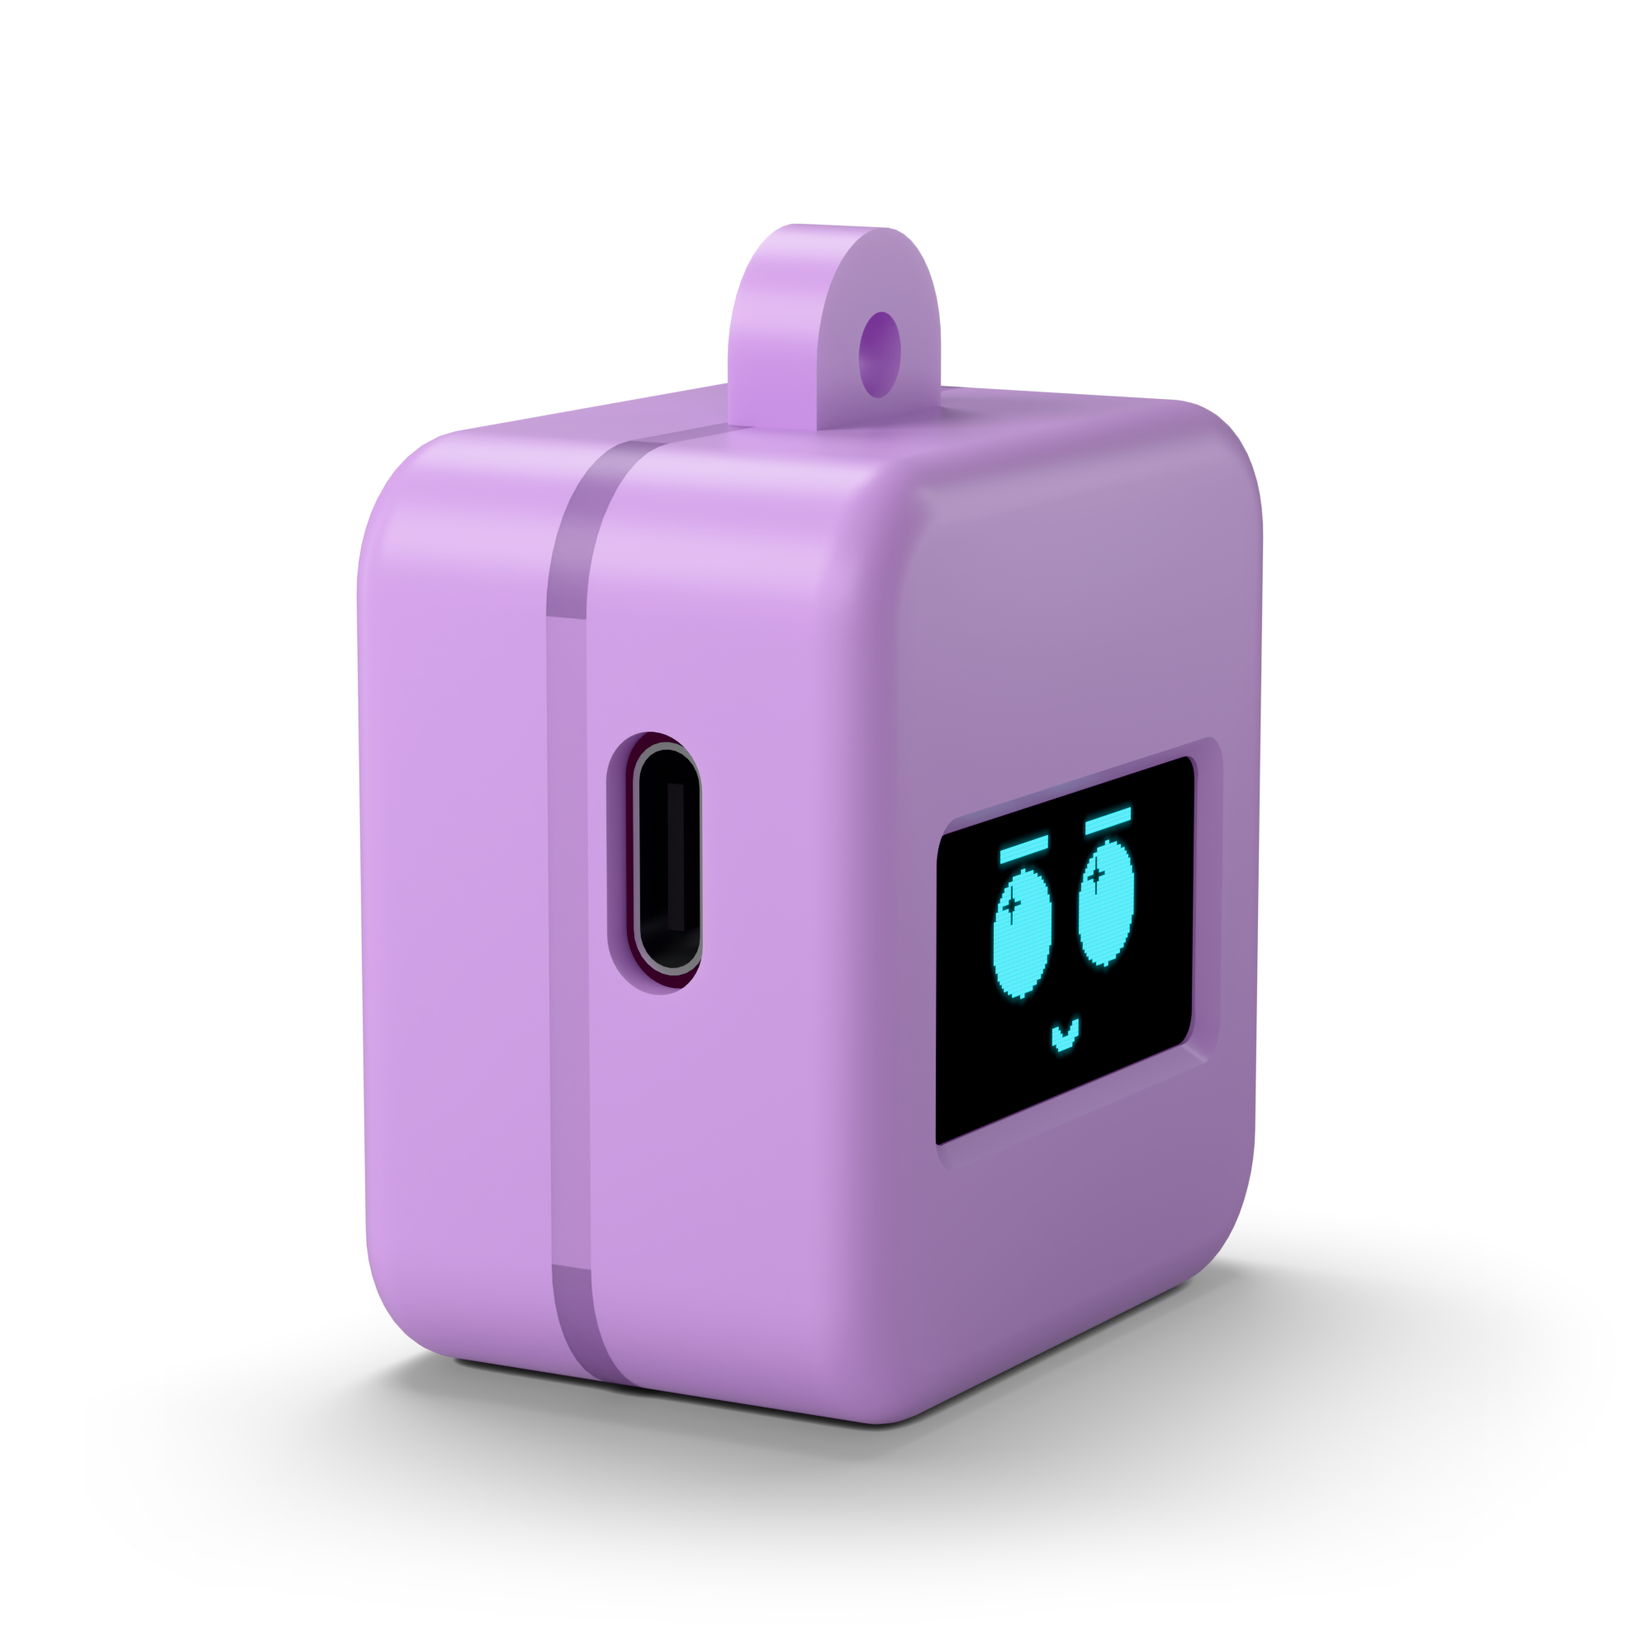
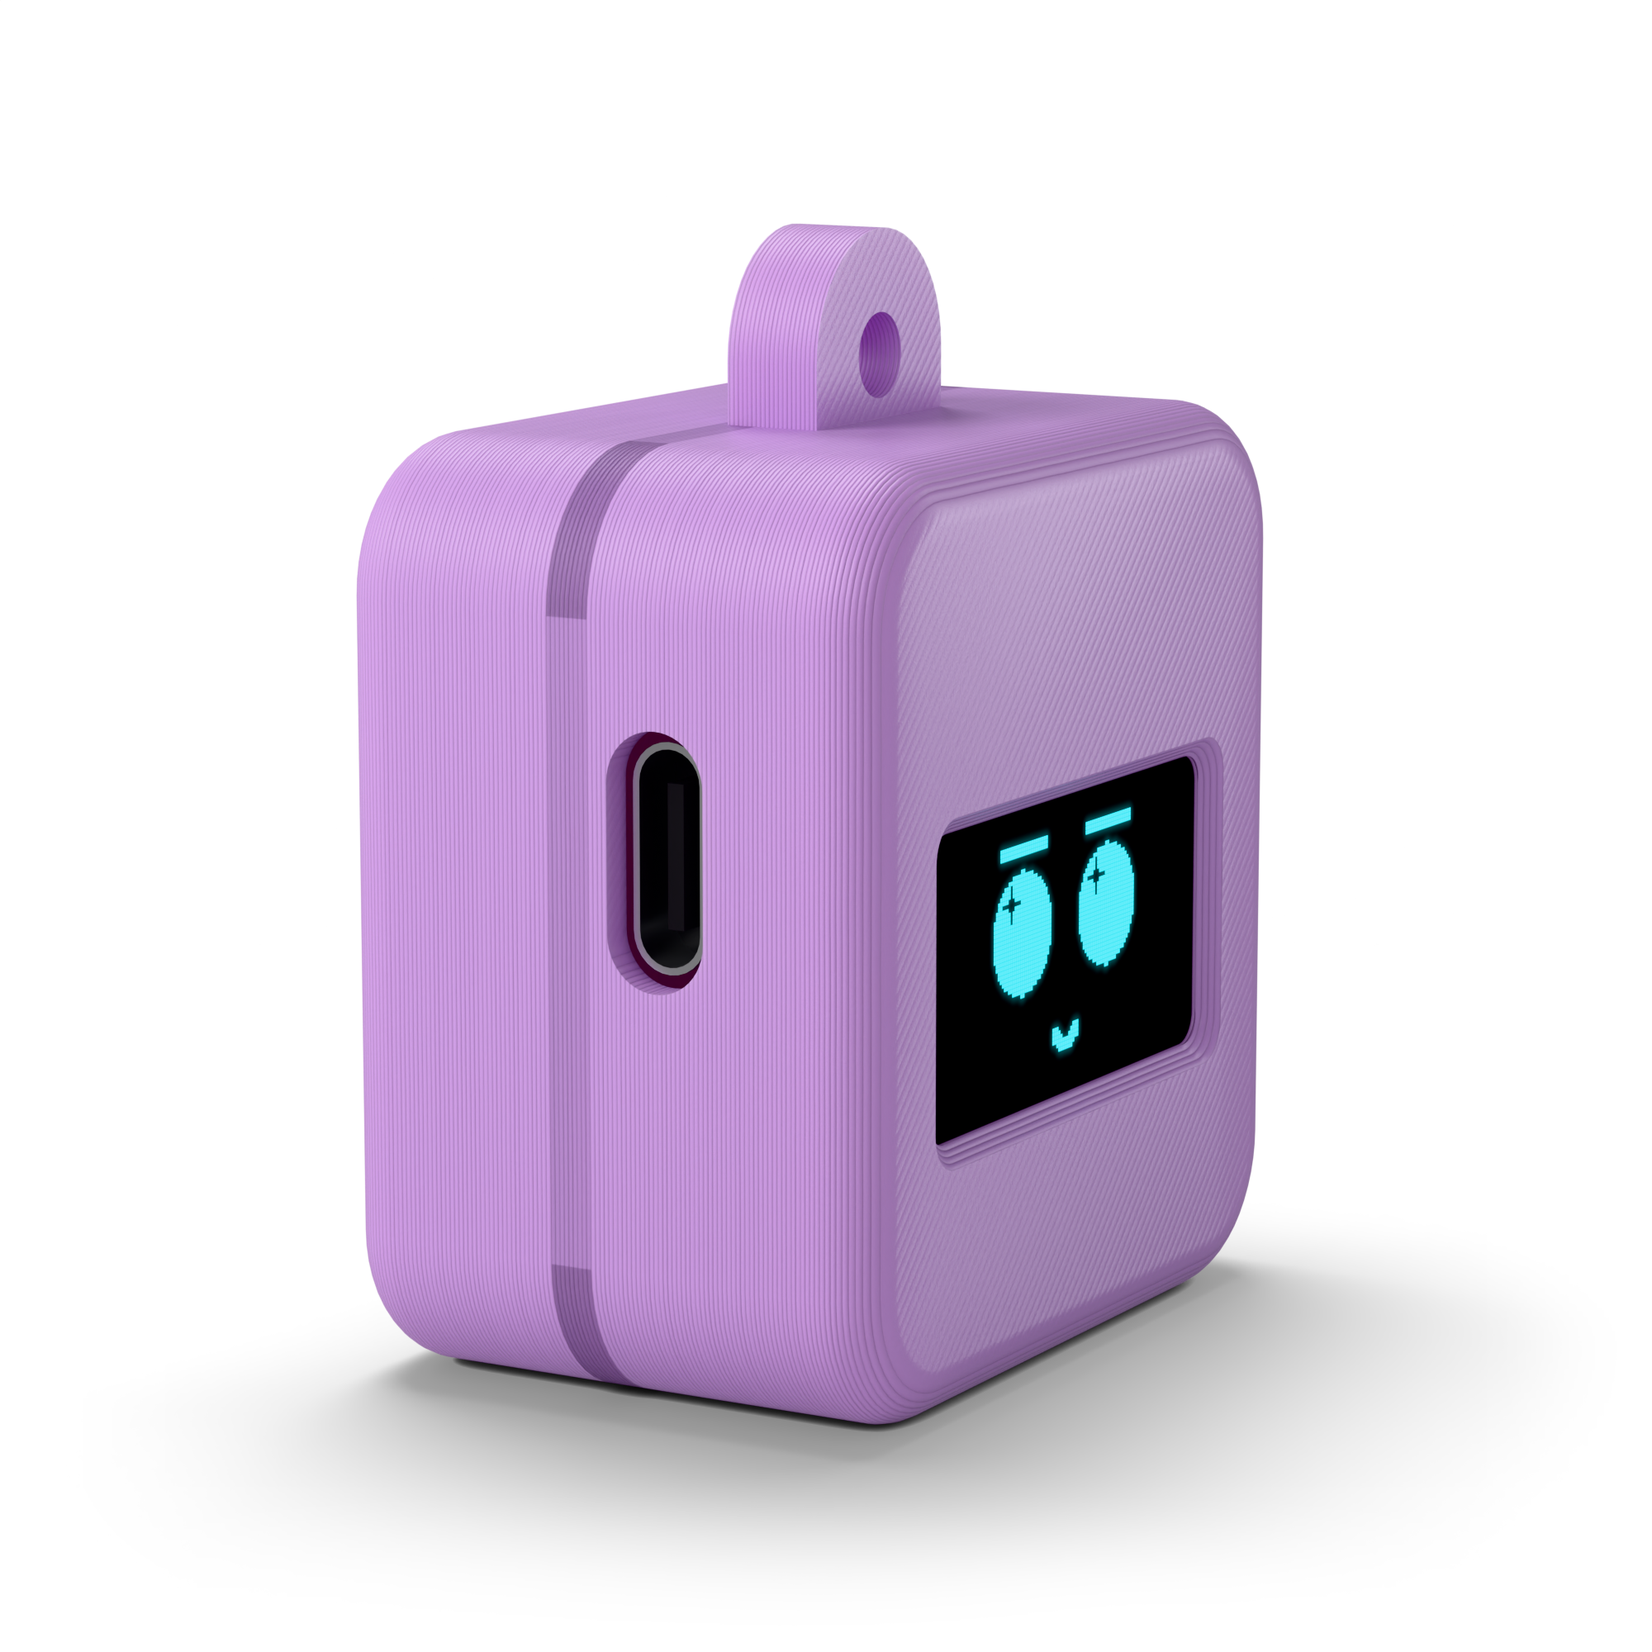
Renders: 3D-printed look, PETG grey/black and milky green
- Shell shader now looks FDM printed: 0.2 mm layer lines along each part's
  print direction, glossier bed faces with first-layer lines, darker grooves.
- New shots in the real ELEGOO PETG grey and black, and a milky green
  limited edition; PLA, PETG and milky finishes per shot.
- renders.json always lists every shot, so --only can render new ones.
- All product images re-rendered.

Claude-Session: https://claude.ai/code/session_01NGZp68ebE8nq2zT4H5x4dy

Changed region(s): [[0.217, 0.124, 0.558, 0.837], [0.62, 0.651, 0.682, 0.682], [0.651, 0.744, 0.682, 0.775]]

diff --git a/web/src/content/products.ts b/web/src/content/products.ts
@@ -67,7 +67,9 @@ export interface Product {
 const render = (file: string, caption?: string): GalleryImage => ({ ...renderImage(file), caption });
 
 const CONCEPT = "Render of the prototype design. Shell colours aren't final.";
-const MINI_PCB = "Mini Lumi case for the PCB: prototype design, not printed yet.";
+const PETG = "Render in the PETG filament the prototypes are printed in.";
+const MILKY_GREEN = "Milky green: a planned limited edition. Render of the prototype design.";
+const MINI_PCB ="Mini Lumi case for the PCB: prototype design, not printed yet.";
 const MINI_2 = "Mini Lumi 2: alternative case design, untested.";
 
 export const products: Product[] = [
@@ -91,6 +93,11 @@ export const products: Product[] = [
       render("three-quarter.png", CONCEPT),
       render("on-keyring.png", CONCEPT),
       render("usb-side.png", CONCEPT),
+      render("front-grey.png", PETG),
+      render("three-quarter-grey.png", PETG),
+      render("front-black.png", PETG),
+      render("front-milky-green.png", MILKY_GREEN),
+      render("three-quarter-milky-green.png", MILKY_GREEN),
       render("front-mint.png", CONCEPT),
       render("front-peach.png", CONCEPT),
       render("mini-pcb-front.png", MINI_PCB),

diff --git a/web/scripts/render_products.py b/web/scripts/render_products.py
@@ -3,13 +3,15 @@
     blender --background --python web/scripts/render_products.py
     blender --background --python web/scripts/render_products.py -- --only three-quarter,on-keyring --scale 0.4 --samples 64 --out some/folder
 
+The shells are shaded as FDM prints, with layer lines in each part's print direction.
 Everything comes from the design files: the case STLs in hardware/enclosure, the
 board's reference parts, and the firmware's frames in public/lumi. These are renders
 of the CAD model, not photos, and the site labels them that way.
 
-A full run writes public/renders/*.png and src/content/renders.json (the image list,
+A run writes public/renders/*.png and src/content/renders.json (the image list,
 and where the screen sits in the front shots so the site can play real animations
-over it). A run with --only or --out leaves renders.json alone.
+over it). renders.json always lists every shot, so --only can render just new ones.
+A run with --out leaves renders.json alone.
 
 Blender axes throughout: X right, Z up, -Y toward the viewer, millimetres.
 """
@@ -31,10 +33,26 @@ WEB = os.path.dirname(HERE)
 ENCLOSURE = os.path.join(WEB, "..", "hardware", "enclosure")
 
 LAVENDER, MINT, PEACH = "#c99be0", "#8fd6b6", "#ffb592"
+# The filament the prototypes are printed in (ELEGOO PETG), and a limited-edition milky green.
+GREY, BLACK, MILKY_GREEN = "#8e9194", "#26272b", "#b6dfc2"
+
+# How each filament takes the light. PETG is glossier than PLA; milky filament lets light far inside.
+PLA = {"roughness": 0.36, "subsurface": 0.12, "subsurface_scale": 0.6}
+PETG = {"roughness": 0.24, "subsurface": 0.15, "subsurface_scale": 0.6}
+MILKY = {"roughness": 0.26, "subsurface": 0.45, "subsurface_scale": 1.6}
 SCREEN_CYAN = (0.045, 0.871, 1.0)  # #3cf0ff, linear
 ACTIVE = (21.7, 10.9)              # OLED active area, mm
 
 SIZE = 2000  # image width in pixels; the keyring shot is 7:8
+
+# The printed look of the shells (see plastic_material), in mm.
+LAYER_H = 0.2         # layer height
+LINE_W = 0.42         # extrusion width: the first layer's lines on the bed face
+LAYER_DEPTH = 0.045   # how deep the grooves between layers read
+LAYER_WOBBLE = 0.025  # how far a layer line wanders
+BED_LINES = 0.12      # first-layer lines, relative to a layer groove
+GROOVE_DARKEN = 0.07  # grooves this much darker than the crowns
+PI = math.pi
 
 # The ground shadow is its own render, because the shadow catcher barely registers the big softboxes.
 SHADOW_LAMP_AT = (-30, 80, 300)
@@ -58,6 +76,18 @@ SHOTS = [
      "yaw": 1.05, "rise": 0.18, "dist": 230, "look": 3, "face": ("yotos", "neutral"), "no_glare": True, **SIDE},
     {"file": "on-keyring.png", "alt": "Pocket Lumi on a keyring", "color": MINT, "tall": True, "fov": 18,
      "yaw": -0.35, "rise": 0.05, "dist": 260, "look": 10, "ring": True, "face": ("ni", "sleepy")},
+    # The real filament, and the limited edition.
+    {"file": "front-grey.png", "alt": "Pocket Lumi in grey PETG, front", "color": GREY, "finish": PETG,
+     "dist": 172, "look": 3.5, "exposure": 0.55, **FRONT},
+    {"file": "three-quarter-grey.png", "alt": "Pocket Lumi in grey PETG, from the side", "color": GREY, "finish": PETG,
+     "yaw": -0.62, "rise": 0.2, "dist": 230, "look": 3, "face": ("ni", "happy"), **SIDE},
+    {"file": "front-black.png", "alt": "Pocket Lumi in black PETG, front", "color": BLACK, "finish": PETG,
+     "dist": 172, "look": 3.5, "exposure": 0.55, **FRONT},
+    {"file": "front-milky-green.png", "alt": "Pocket Lumi in limited-edition milky green, front", "color": MILKY_GREEN,
+     "finish": MILKY, "dist": 172, "look": 3.5, "exposure": 0.55, **FRONT},
+    {"file": "three-quarter-milky-green.png", "alt": "Pocket Lumi in limited-edition milky green, from the side",
+     "color": MILKY_GREEN, "finish": MILKY, "yaw": -0.62, "rise": 0.2, "dist": 230, "look": 3,
+     "face": ("katos", "love"), **SIDE},
     {"file": "trio.png", "alt": "", "color": PEACH, "yaw": 0.5, "rise": 0.2, "dist": 230, "look": 3,
      "face": ("katos", "love"), **SIDE},
     # The Mini Lumi cases: prototype designs that aren't printed yet.
@@ -143,8 +173,11 @@ def new_object(name, mesh, parent, material):
     return obj
 
 
-def shell_object(name, tris, parent, material, bevel):
-    """A case part: flat faces merged, curves smooth, and a small soft edge on every hard corner."""
+def shell_object(name, tris, parent, material, bevel, layer_axis):
+    """A case part: flat faces merged, curves smooth, and a small soft edge on every hard corner.
+
+    layer_axis is the direction it's printed in, in these coordinates: the layer lines run across it.
+    """
     verts, index = np.unique(np.round(tris.reshape(-1, 3), 4), axis=0, return_inverse=True)
     faces = index.reshape(-1, 3)
     faces = faces[(faces[:, 0] != faces[:, 1]) & (faces[:, 1] != faces[:, 2]) & (faces[:, 0] != faces[:, 2])]
@@ -160,6 +193,7 @@ def shell_object(name, tris, parent, material, bevel):
     me.shade_smooth()
     me.set_sharp_from_angle(angle=math.radians(32))
     obj = new_object(name, me, parent, material)
+    obj["layer_axis"] = layer_axis
     mod = obj.modifiers.new("soft edges", "BEVEL")
     mod.limit_method = "ANGLE"
     mod.angle_limit = math.radians(32)
@@ -271,22 +305,128 @@ def hex_linear(value):
 
 
 def plastic_material():
-    """Soft matte plastic: a little light inside it, and a very fine moulded grain."""
-    mat = principled("shell plastic", Roughness=0.4, Subsurface_Weight=0.1, Subsurface_Scale=0.6, Coat_Weight=0.2, Coat_Roughness=0.28)
+    """FDM-printed PLA/PETG.
+
+    Each case part carries a "layer_axis" property, the direction it's printed in (in the part's own
+    coordinates). Along it run the layer lines: a rounded bead every LAYER_H, slightly uneven from
+    layer to layer and a little wobbly, darker and rougher in the grooves. Faces that lay on the
+    bed are smoother and glossier, with the faint diagonal lines of the first layer. A little light
+    gets inside the plastic.
+    """
+    mat = principled("shell plastic", Roughness=0.42, Subsurface_Weight=0.12, Subsurface_Scale=0.6, Specular_IOR_Level=0.45)
     tree = mat.node_tree
-    node = tree.nodes["Principled BSDF"]
-    node.inputs["Subsurface Radius"].default_value = (1.0, 0.55, 0.4)
-    coord = tree.nodes.new("ShaderNodeTexCoord")
-    noise = tree.nodes.new("ShaderNodeTexNoise")
-    noise.inputs["Scale"].default_value = 11.0
-    noise.inputs["Detail"].default_value = 3.0
-    bump = tree.nodes.new("ShaderNodeBump")
-    bump.inputs["Strength"].default_value = 0.035
-    bump.inputs["Distance"].default_value = 0.08
-    tree.links.new(coord.outputs["Object"], noise.inputs["Vector"])
-    tree.links.new(noise.outputs["Fac"], bump.inputs["Height"])
-    tree.links.new(bump.outputs["Normal"], node.inputs["Normal"])
+    nodes, link = tree.nodes, tree.links.new
+    bsdf = nodes["Principled BSDF"]
+    bsdf.inputs["Subsurface Radius"].default_value = (1.0, 0.55, 0.4)
+
+    def m(op, a, b=None, clamp=False):
+        n = nodes.new("ShaderNodeMath")
+        n.operation = op
+        n.use_clamp = clamp
+        for i, v in enumerate((a, b)):
+            if v is None:
+                continue
+            if isinstance(v, (int, float)):
+                n.inputs[i].default_value = v
+            else:
+                link(v, n.inputs[i])
+        return n.outputs[0]
+
+    def vmath(op, a, b=None):
+        n = nodes.new("ShaderNodeVectorMath")
+        n.operation = op
+        for i, v in enumerate((a, b)):
+            if v is None:
+                continue
+            if isinstance(v, (tuple, list)):
+                n.inputs[i].default_value = v
+            else:
+                link(v, n.inputs[i])
+        return n.outputs["Value" if op == "DOT_PRODUCT" else "Vector"]
+
+    def noise(vector=None, w=None, scale=1.0, detail=0.0, dims="3D"):
+        n = nodes.new("ShaderNodeTexNoise")
+        n.noise_dimensions = dims
+        n.inputs["Scale"].default_value = scale
+        n.inputs["Detail"].default_value = detail
+        if vector is not None:
+            link(vector, n.inputs["Vector"])
+        if w is not None:
+            link(w, n.inputs["W"])
+        return n.outputs["Fac"]
+
+    coord = nodes.new("ShaderNodeTexCoord").outputs["Object"]
+    attr = nodes.new("ShaderNodeAttribute")
+    attr.attribute_type = "OBJECT"
+    attr.attribute_name = "layer_axis"
+    axis = attr.outputs["Vector"]
+
+    # Height along the print direction, nudged a little so the lines aren't ruler-straight.
+    along = vmath("DOT_PRODUCT", coord, axis)
+    wobble = m("MULTIPLY", m("SUBTRACT", noise(coord, scale=0.35, detail=1.0), 0.5), LAYER_WOBBLE)
+    along = m("ADD", along, wobble)
+    # One rounded bead per layer: 0 in the groove, 1 on the crown.
+    layer = m("DIVIDE", along, LAYER_H)
+    bead = m("POWER", m("ABSOLUTE", m("SINE", m("MULTIPLY", layer, PI))), 0.55)
+    # Some layers stand out a little more than others.
+    unevenness = m("ADD", 0.55, m("MULTIPLY", noise(w=m("FLOOR", layer), scale=0.9, dims="1D"), 0.9))
+    walls = m("MULTIPLY", bead, unevenness)
+
+    # How squarely the surface faces the print direction: 1 on the bed (and top) faces.
+    normal = nodes.new("ShaderNodeVectorTransform")
+    normal.vector_type = "NORMAL"
+    normal.convert_from, normal.convert_to = "WORLD", "OBJECT"
+    link(nodes.new("ShaderNodeNewGeometry").outputs["Normal"], normal.inputs["Vector"])
+    facing = m("ABSOLUTE", vmath("DOT_PRODUCT", normal.outputs["Vector"], axis))
+    ramp = nodes.new("ShaderNodeMapRange")
+    ramp.interpolation_type = "SMOOTHSTEP"
+    ramp.inputs["From Min"].default_value = 0.93
+    ramp.inputs["From Max"].default_value = 0.995
+    link(facing, ramp.inputs["Value"])
+    flat = ramp.outputs["Result"]
+
+    # The first layer's lines, diagonal across the bed face, one extrusion width apart.
+    diagonal = vmath("NORMALIZE", vmath("CROSS_PRODUCT", axis, (1.0, 1.0, 1.0)))
+    across = m("DIVIDE", vmath("DOT_PRODUCT", coord, diagonal), LINE_W)
+    bed = m("MULTIPLY", m("ABSOLUTE", m("SINE", m("MULTIPLY", across, PI))), BED_LINES)
+
+    height = nodes.new("ShaderNodeMix")
+    height.data_type = "FLOAT"
+    link(flat, height.inputs["Factor"])
+    link(walls, height.inputs["A"])
+    link(bed, height.inputs["B"])
+    grain = m("MULTIPLY", noise(coord, scale=11.0, detail=3.0), 0.12)
+    surface = m("ADD", height.outputs["Result"], grain)
+    bump = nodes.new("ShaderNodeBump")
+    bump.inputs["Strength"].default_value = 1.0
+    bump.inputs["Distance"].default_value = LAYER_DEPTH
+    link(surface, bump.inputs["Height"])
+    link(bump.outputs["Normal"], bsdf.inputs["Normal"])
+
+    # Grooves are a touch darker and rougher; the bed face is smoother.
+    base_rough = nodes.new("ShaderNodeValue")
+    base_rough.name = "base roughness"
+    base_rough.outputs[0].default_value = PLA["roughness"]
+    groove = m("SUBTRACT", 1.0, m("MINIMUM", walls, 1.0))
+    on_walls = m("SUBTRACT", 1.0, flat)
+    rough = m("ADD", m("ADD", base_rough.outputs[0], m("MULTIPLY", m("MULTIPLY", groove, on_walls), 0.14)),
+                 m("MULTIPLY", flat, -0.12))
+    link(rough, bsdf.inputs["Roughness"])
+    color = nodes.new("ShaderNodeRGB")
+    color.name = "shell color"
+    shade = nodes.new("ShaderNodeMix")
+    shade.data_type = "RGBA"
+    shade.blend_type = "MULTIPLY"
+    shade.inputs["Factor"].default_value = 1.0
+    link(color.outputs["Color"], shade.inputs["A"])
+    darken = nodes.new("ShaderNodeCombineColor")
+    level = m("SUBTRACT", 1.0, m("MULTIPLY", m("MULTIPLY", groove, on_walls), GROOVE_DARKEN))
+    for socket in ("Red", "Green", "Blue"):
+        link(level, darken.inputs[socket])
+    link(darken.outputs["Color"], shade.inputs["B"])
+    link(shade.outputs["Result"], bsdf.inputs["Base Color"])
     return mat
+
 
 
 def screen_material(image):
@@ -321,7 +461,9 @@ def build_models(shell, screen, glass, metal, dark, steel, board):
     unprint = Matrix(((1, 0, 0, 0), (0, -1, 0, 0), (0, 0, -1, 23.5), (0, 0, 0, 1)))  # the back part prints flipped
     front = moved(load_stl("stl", "lumi_front.stl"), upright)
     back = moved(moved(load_stl("stl", "lumi_back.stl"), unprint), upright)
-    bodies = [shell_object("pocket front", front, root, shell, 0.22), shell_object("pocket back", back, root, shell, 0.22)]
+    # Both parts print with the SCAD model's Z (here Y, front to back) upright.
+    bodies = [shell_object("pocket front", front, root, shell, 0.22, (0, 1, 0)),
+              shell_object("pocket back", back, root, shell, 0.22, (0, 1, 0))]
     active = display(root, screen, glass, {"x": 0, "y": 0.9, "z": -1.8}, (-12, 12, -6.7, 6.7))
     extras = usb_port(-16.4, 9.1, 3.5, 3.2, 8.9, root, metal, dark)
     extras.append(box("XIAO board", (-16.4, 6.3, -5.4), (4.6, 7.5, 12.4), root, board))
@@ -338,7 +480,9 @@ def build_models(shell, screen, glass, metal, dark, steel, board):
     body = moved(load_stl("mini_lumi_pcb", "mini_lumi_pcb_body.stl"), Matrix.Translation((0, 0, sizes["base_z"])))
     lid = moved(load_stl("mini_lumi_pcb", "mini_lumi_pcb_lid.stl"),
                 Matrix(((1, 0, 0, 0), (0, 0, -1, lid_back), (0, 1, 0, 0), (0, 0, 0, 1))))
-    bodies = [shell_object("mini body", body, root, shell, 0.16), shell_object("mini lid", lid, root, shell, 0.16)]
+    # Each prints as it lies in its STL: the body as it stands here, the lid on its back.
+    bodies = [shell_object("mini body", body, root, shell, 0.16, (0, 0, 1)),
+              shell_object("mini lid", lid, root, shell, 0.16, (0, 1, 0))]
     refs = json.load(open(os.path.join(ENCLOSURE, "blender", "lumi_pcb_v1_refs.json")))
     extras = []
     for ref in refs["boxes"]:
@@ -363,7 +507,8 @@ def build_models(shell, screen, glass, metal, dark, steel, board):
     mid = tris[:, :, 1].mean(axis=1)
     body, lid = tris[mid < 24], tris[mid >= 24].copy()
     lid[:, :, 1] -= 22.65
-    bodies = [shell_object("mini2 body", body, root, shell, 0.16), shell_object("mini2 lid", lid, root, shell, 0.16)]
+    bodies = [shell_object("mini2 body", body, root, shell, 0.16, (0, 0, 1)),
+              shell_object("mini2 lid", lid, root, shell, 0.16, (0, 0, 1))]
     active = display(root, screen, glass, {"x": 0.25, "y": -6.0, "z": 24.1}, (-13.1, 13.1, -7.75, 7.75), lean=7)
     models["mini2"] = {"root": root, "bodies": [body, lid], "active": active, "settle": True,
                        "objects": [root, *bodies, active, *[c for c in root.children if c.name.startswith("OLED glass")]]}
@@ -550,7 +695,8 @@ def main():
     scene.camera = camera
     ground = catcher("ground", (0, 0, 0), (0, 0, 0))
 
-    shell_base = shell.node_tree.nodes["Principled BSDF"].inputs["Base Color"]
+    shell_base = shell.node_tree.nodes["shell color"].outputs["Color"]
+    shell_bsdf = shell.node_tree.nodes["Principled BSDF"]
     screen_node = screen.node_tree.nodes["Principled BSDF"]
     listed = []
     for shot in SHOTS:
@@ -577,6 +723,10 @@ def main():
         ground.hide_render = not shot.get("ground")
 
         shell_base.default_value = (*hex_linear(shot["color"]), 1)
+        finish = shot.get("finish", PLA)
+        shell.node_tree.nodes["base roughness"].outputs[0].default_value = finish["roughness"]
+        shell_bsdf.inputs["Subsurface Weight"].default_value = finish["subsurface"]
+        shell_bsdf.inputs["Subsurface Scale"].default_value = finish["subsurface_scale"]
         scene.view_settings.exposure = shot.get("exposure", 0.0)
         cam.angle = math.radians(shot["fov"])
         # The case sits level; the camera looks down on it from "rise" radians above.
@@ -629,7 +779,7 @@ def main():
                 world_strength.default_value, cycles.samples = beauty_world, beauty_samples
             print("rendered", shot["file"], flush=True)
 
-    if not only and "--out" not in sys.argv:
+    if "--out" not in sys.argv:
         with open(os.path.join(WEB, "src", "content", "renders.json"), "w", newline="\n") as fh:
             fh.write(json.dumps(listed, indent=2) + "\n")
 
